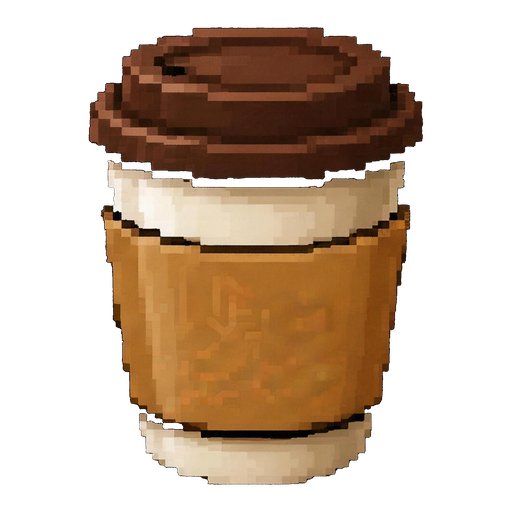
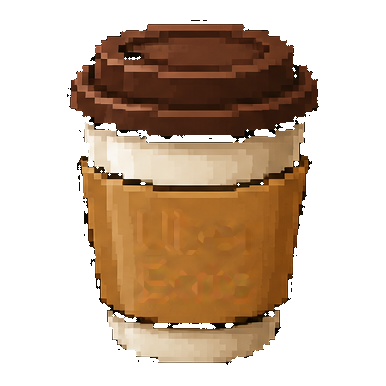
Combo Creator: revert Coffee (1) + Noodles (3) to clean pre-upscale art (upscale added artifacts); cache-bust v12

diff --git a/Multi-View-Screen/10ten.html b/Multi-View-Screen/10ten.html
@@ -558,7 +558,7 @@ const CONFIG = {
   storageKey: "ubereats.merge.v1",
   tutorialKey: "ubereats.merge.tut",
   // image path per level - drop your renders into assets/uber/<level>.png
-  itemImg: (v) => `assets/uber/${v}.png?v=11`,
+  itemImg: (v) => `assets/uber/${v}.png?v=12`,
   numbersInImage: false,  // images have NO baked numbers - the game draws them (uniform size)
   // name + emoji fallback (shown until the PNG exists)
   items: {